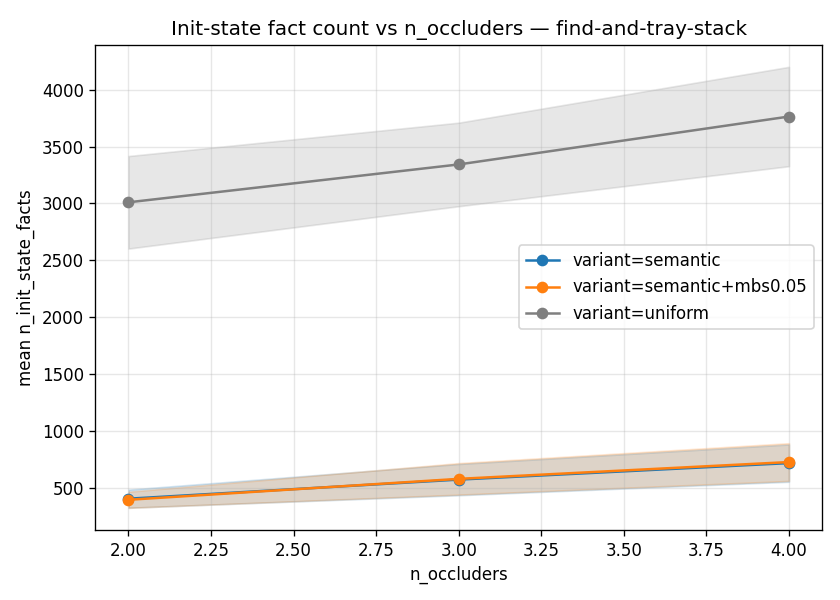
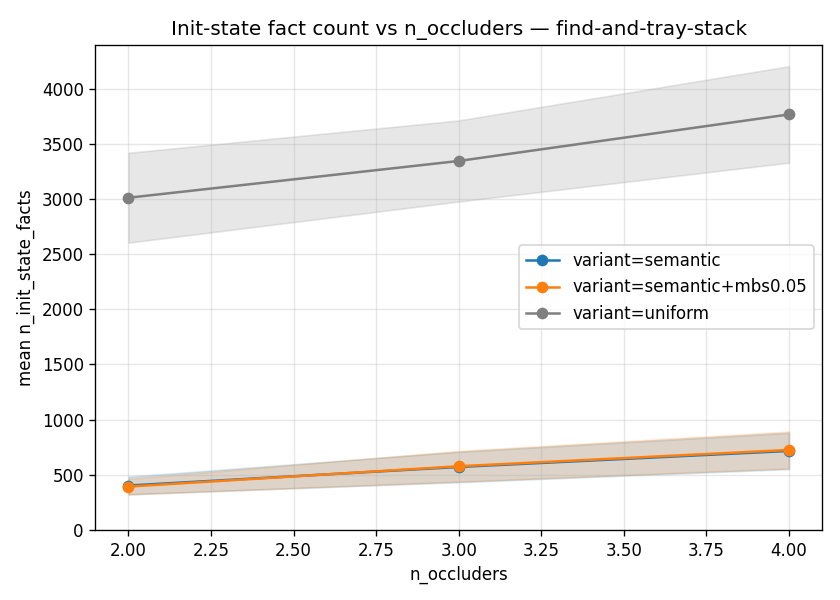
#99 polish: per-panel y on boxel_evolution + clamp plot_metric y >= 0
boxel_evolution_per_replan: drop sharey=True so uniform's
free-space line (~1300 on stack, ~330 on random-pairs) doesn't
flatten the semantic / mbs0.05 panels into an unreadable strip
near zero.  Each variant panel now scales to its own range and
the per-replan evolution is legible everywhere.

plot_metric: when ylim is None (sense_action_count,
init_state_facts, plan_count, planning_time), call
ax.set_ylim(bottom=0) so matplotlib's auto y-pad stops drawing
the +/-1 std bands into negative territory.  Lower band values
were already clipped at 0 inside _plot(); this stops the axis
itself from showing the empty negative region.

diff --git a/eval_plotter.py b/eval_plotter.py
@@ -689,10 +689,15 @@ def plot_boxel_evolution_per_replan(
                    "shadow": "SHADOW",
                    "free_space": "FREE_SPACE"}
 
+    # Audit #99 polish — drop sharey: uniform's free-space line at
+    # ~1300 boxels (stack) / ~330 (random-pairs) squashes the
+    # semantic/mbs0.05 panels (max ~30-50) into an unreadable strip
+    # at the bottom.  Per-panel y-axis lets each variant's evolution
+    # be visible at its own scale.
     fig, axes = plt.subplots(
         1, len(variants),
         figsize=(5 * len(variants), 4),
-        sharey=True, squeeze=False,
+        squeeze=False,
     )
     axes = axes[0]
     for ax, variant in zip(axes, variants):
@@ -1665,6 +1670,16 @@ def plot_metric(grouped: Dict[int, Dict[int, List[float]]],
     ax.set_title(title)
     if ylim:
         ax.set_ylim(*ylim)
+    else:
+        # Audit #99 polish — counts / times can't be negative.  Without
+        # this clamp matplotlib auto-pads the y-range below 0 (visible
+        # on sense_action_count, init_state_facts, plan_count: the +/-
+        # 1-std bands appeared to dip into negative territory next to
+        # the x-axis), which read as "the data sometimes goes below 0"
+        # when it never does.  Lower band values are already clipped at
+        # 0 in _plot() above; this just stops the AXIS PADDING from
+        # showing the empty negative region.
+        ax.set_ylim(bottom=0)
     ax.grid(True, alpha=0.3)
     ax.legend()
     fig.tight_layout()
